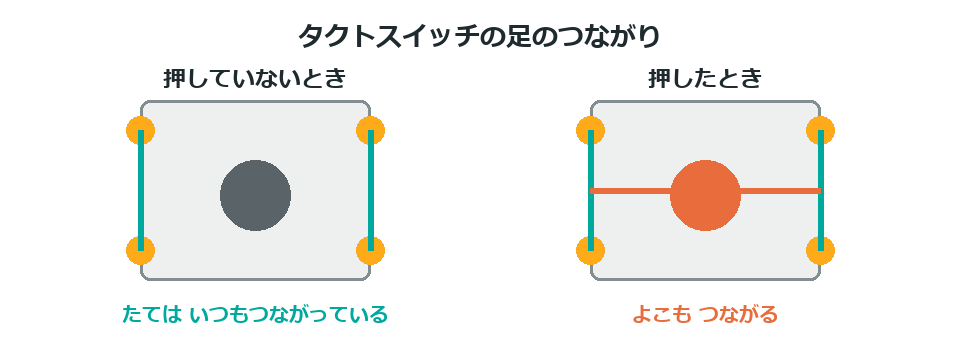
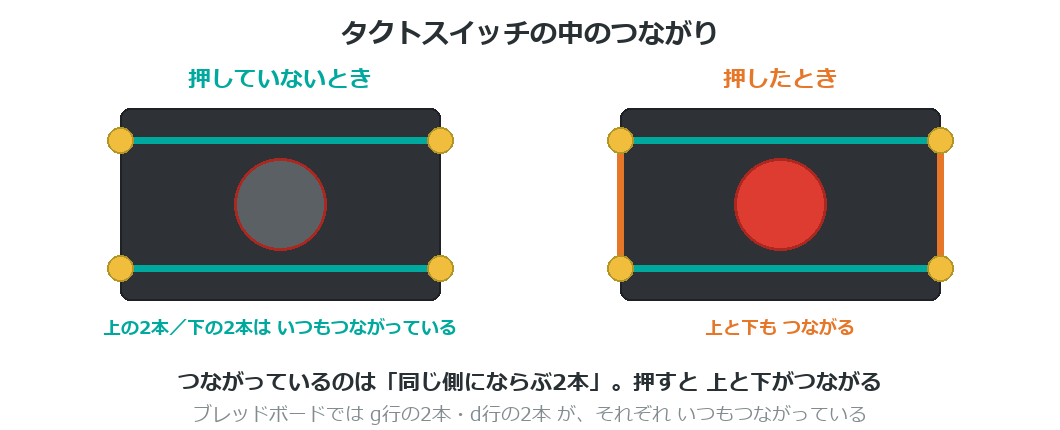
b2「タクトスイッチのしくみ」の誤りを修正（つながる向きが逆だった）
データシート（TVGP01-G73BB）と実物を照合したところ、記述が逆だった。

誤: 「向かい合った足どうしが**もともとつながっている**」
正: 「**同じ側にならぶ2本**が、もともとつながっている」

「向かい合った足」は、押したときにつながるほうの組。
実物でも「g行の2本・d行の2本 がそれぞれ常時つながり、押すと g と d がつながる」
であり、記述と逆になっていた。

データシートの裏づけ:
> CONTACT ARRANGEMENT: 1 poles 1 throws（1接点1回路）
端子は4本だが、スイッチとしては1つだけ。

図（switch_legs.png）も描きなおした。以前は短絡する組をたてに描いていたため、
ブレッドボード配線図（同じ行＝よこ方向が短絡）と向きが食いちがっていた。
配線図にそろえて、よこ方向に短絡する形に統一した。

あわせて 💪 にチャタリングを明記:
データシートに「Bounce: 10mS 以下」とある。「押すたびにON/OFFが入れかわる」が
むずかしい理由を「1回押しただけで何回も押したことになってしまう」と具体化した。
これまでは「じつはむずかしい」としか書いておらず、理由がなかった。

スイッチの仕様（接点構成・チャタリング・動作力・寿命）を CURRICULUM.md に記録。

diff --git a/docs/b2_switch/index.html b/docs/b2_switch/index.html
@@ -56,17 +56,17 @@
 
 :::
 
-小さな押しボタン。足が**4本**あるけれど、中では2本ずつつながっているよ。
+足は**4本**あるけれど、中のスイッチは**1つだけ**なんだ。
 
-- 向かい合った足どうしが**もともとつながっている**
-- **押すと**、残りの2本ともつながる
+- **同じ側にならぶ2本**は、もともとつながっている
+- **押すと**、上の2本と下の2本がつながる
 
-> ⚠ 向きをまちがえると、押していなくてもつながったままになる。
-> うまくいかないときは、**90度回して**さしなおしてみよう。
+> ⚠ 90度まちがえてさすと、押していなくてもつながったままになる。
+> LEDが光りっぱなしなら、**回してさしなおして**みよう。
 
 :::
 
-![たては いつもつながっている。押すと よこもつながる](image/index/switch_legs.png)
+![同じ側にならぶ2本は いつもつながっている](image/index/switch_legs.png)
 
 ---
 
@@ -153,7 +153,7 @@ void loop() {
 > 💪 押すと**音が鳴る**ようにもできるよ（b5 のブザーと組み合わせ）。
 
 > 「押すたびにON/OFFが入れかわる」は、じつはむずかしい。
-> 制御編の `c3` でやり方をおぼえてから挑戦しよう。
+> 1回押しただけで**何回も押したこと**になってしまうんだ（チャタリング）。
 </script>
 
 <script src="../assets/deck.js"></script>

diff --git a/content/b2_switch/index.md b/content/b2_switch/index.md
@@ -43,17 +43,17 @@ wip: 写真まち
 
 :::
 
-小さな押しボタン。足が**4本**あるけれど、中では2本ずつつながっているよ。
+足は**4本**あるけれど、中のスイッチは**1つだけ**なんだ。
 
-- 向かい合った足どうしが**もともとつながっている**
-- **押すと**、残りの2本ともつながる
+- **同じ側にならぶ2本**は、もともとつながっている
+- **押すと**、上の2本と下の2本がつながる
 
-> ⚠ 向きをまちがえると、押していなくてもつながったままになる。
-> うまくいかないときは、**90度回して**さしなおしてみよう。
+> ⚠ 90度まちがえてさすと、押していなくてもつながったままになる。
+> LEDが光りっぱなしなら、**回してさしなおして**みよう。
 
 :::
 
-![たては いつもつながっている。押すと よこもつながる](image/index/switch_legs.png)
+![同じ側にならぶ2本は いつもつながっている](image/index/switch_legs.png)
 
 ---
 
@@ -140,4 +140,4 @@ void loop() {
 > 💪 押すと**音が鳴る**ようにもできるよ（b5 のブザーと組み合わせ）。
 
 > 「押すたびにON/OFFが入れかわる」は、じつはむずかしい。
-> 制御編の `c3` でやり方をおぼえてから挑戦しよう。
+> 1回押しただけで**何回も押したこと**になってしまうんだ（チャタリング）。

diff --git a/CURRICULUM.md b/CURRICULUM.md
@@ -200,6 +200,13 @@ void loop() {
 ```
 
 - ⚠ `INPUT_PULLUP` は「押すと LOW」。ここは必ずつまずくので、図＋ヒント吹き出しで
+- **タクトスイッチ TVGP01-G73BB**（12×12×7.3mm・大型）のデータシートで確認（2026-09-20）
+  - **CONTACT ARRANGEMENT: 1 poles 1 throws（1接点1回路）** … 端子は4本だが**スイッチは1つ**。
+    同じ側にならぶ2本が常時短絡し、押すと上下がつながる
+  - ブレッドボードでは **g行の2本・d行の2本**がそれぞれ常時つながる（実物で確認）
+  - **Bounce（チャタリング）: 10ms 以下** … 1回押すと最大10msのあいだ ON/OFF が暴れる。
+    「押すたびにON/OFF反転」を作るときは、この対策が要る（b2 の 💪 に明記した）
+  - 動作力 180±50gf ／ ストローク 0.25±0.10mm ／ 最大定格 DC12V 50mA ／ 寿命20万回
 - 💪 押している間だけでなく「押すたびに ON/OFF が入れかわる」ようにしてみよう（`c3_if` の予習）
 
 ### b3 LEDの明るさを変えよう
